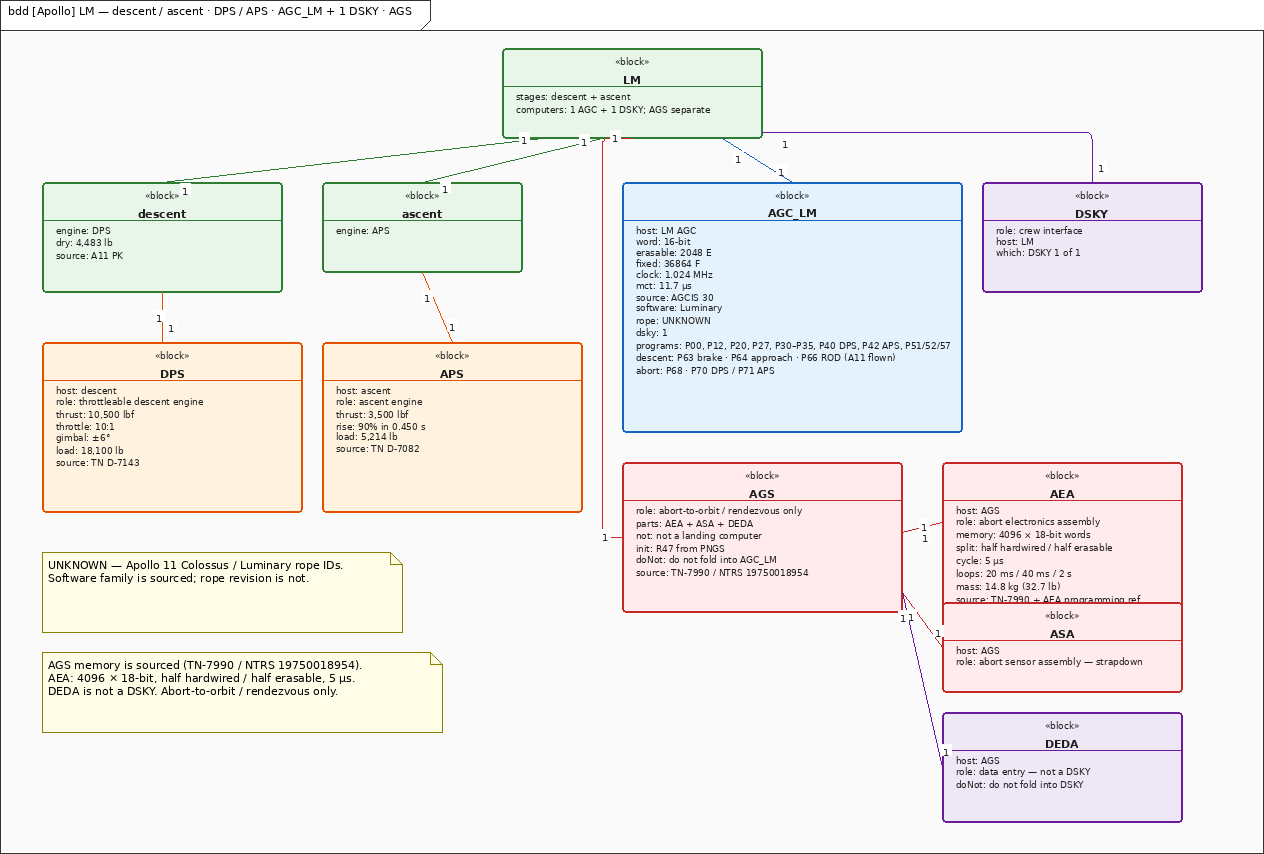
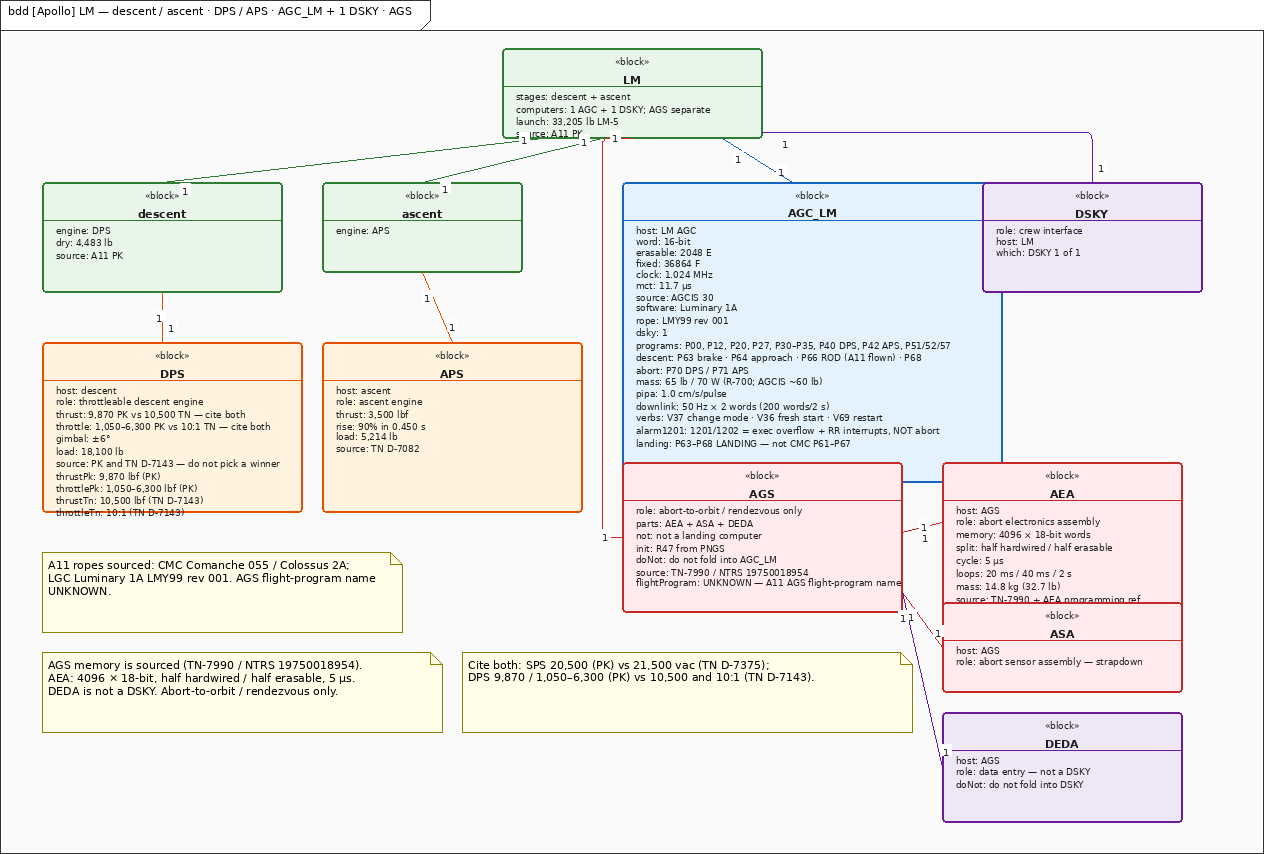
Render Apollo tank-load BDD and CMC/LGC program STMs

diff --git a/tests/test_apollo_example.py b/tests/test_apollo_example.py
@@ -350,7 +350,7 @@ class ApolloExampleTests(unittest.TestCase):
         self.assertEqual(sic["lox"], "3,307,855 lb")
         self.assertEqual(sic["rp1"], "1,426,069 lb")
         self.assertEqual(sic["liftoffThrust"], "7,653,854 lbf")
-        self.assertIn("A11 PK p.109", defs["Apollo.Note.TanksSourced"]["text"])
+        self.assertIn("A11 Press Kit p.109", defs["Apollo.Note.TanksSourced"]["text"])
         self.assertNotIn("Apollo.Note.UnknownTanks", defs)
         self.assertIn("UNKNOWN", defs["Apollo.Note.UnknownDv"]["text"])
         self.assertIn("lunar", defs["Apollo.Note.UnknownDv"]["text"])
